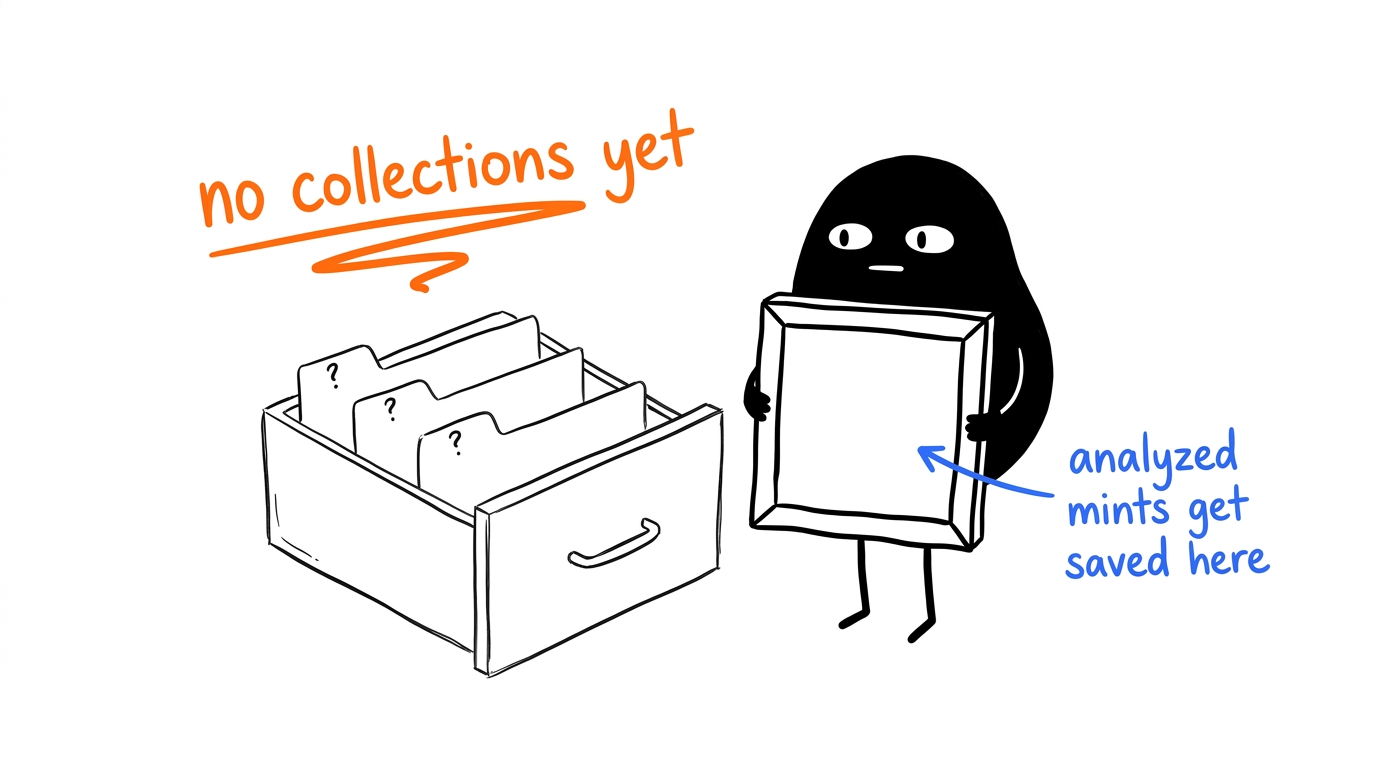
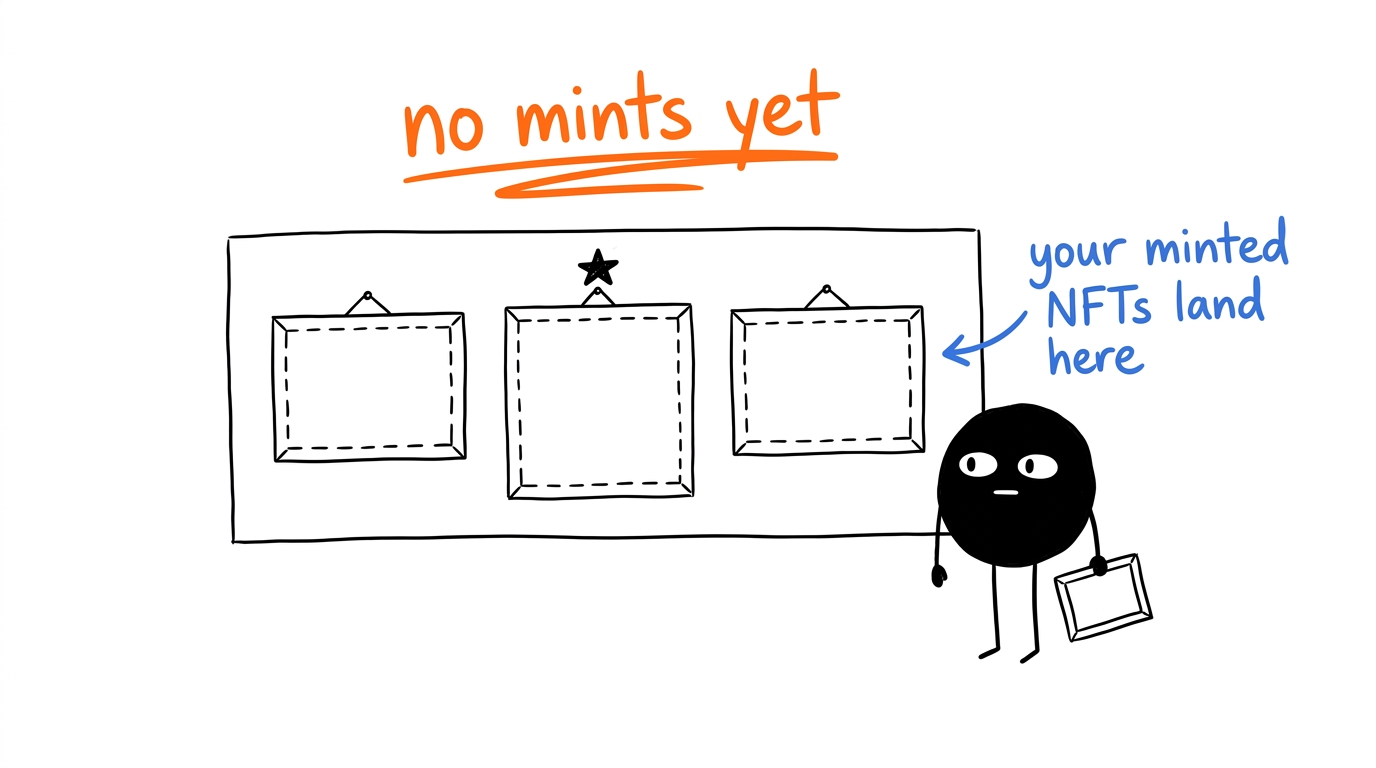
fix(collections): correct empty state — collections holds minted NFTs, not analyzed
- Regenerate empty-collections illustration to reflect actual behaviour: a
  gallery wall of empty frames with 'no mints yet' + 'your minted NFTs land
  here', instead of the earlier filing-drawer of analyzed mints.
- Update empty-state copy on /collections: title 'No minted NFTs yet',
  description points users to the Mints page to queue their first mint.
- Fix imageAlt to describe the new illustration accurately.

diff --git a/src/app/(authenticated)/collections/collections-client.tsx b/src/app/(authenticated)/collections/collections-client.tsx
@@ -258,9 +258,9 @@ export default function CollectionsClient() {
               }
             : {
                 image: '/illustrations/empty-collections.jpeg',
-                imageAlt: 'A character holding an empty picture frame beside an empty filing drawer.',
-                title: 'No collections yet',
-                description: 'Analyzed mints get saved here. Add your first NFT collection to start tracking floor prices, risk, and mint activity.',
+                imageAlt: 'A character beside a gallery wall of empty frames, waiting for the first minted NFT to hang up.',
+                title: 'No minted NFTs yet',
+                description: 'Your minted NFTs land here after a successful mint. Queue a mint on the Mints page to get your first one hanging on the wall.',
                 action: <Button variant="primary" onClick={() => setAddOpen(true)}><Plus className="h-3.5 w-3.5" />Add Collection</Button>,
               })}
         />